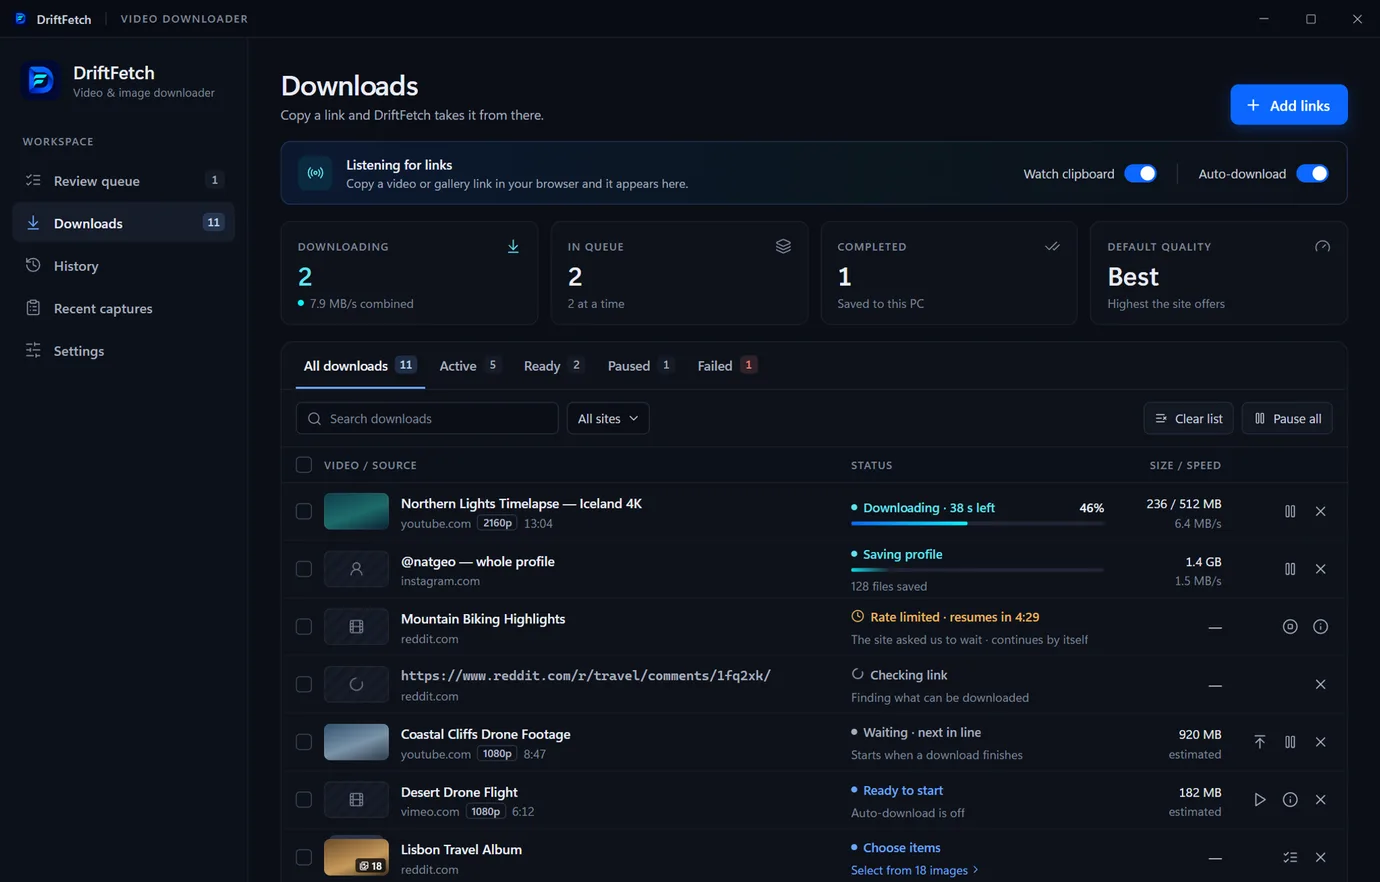
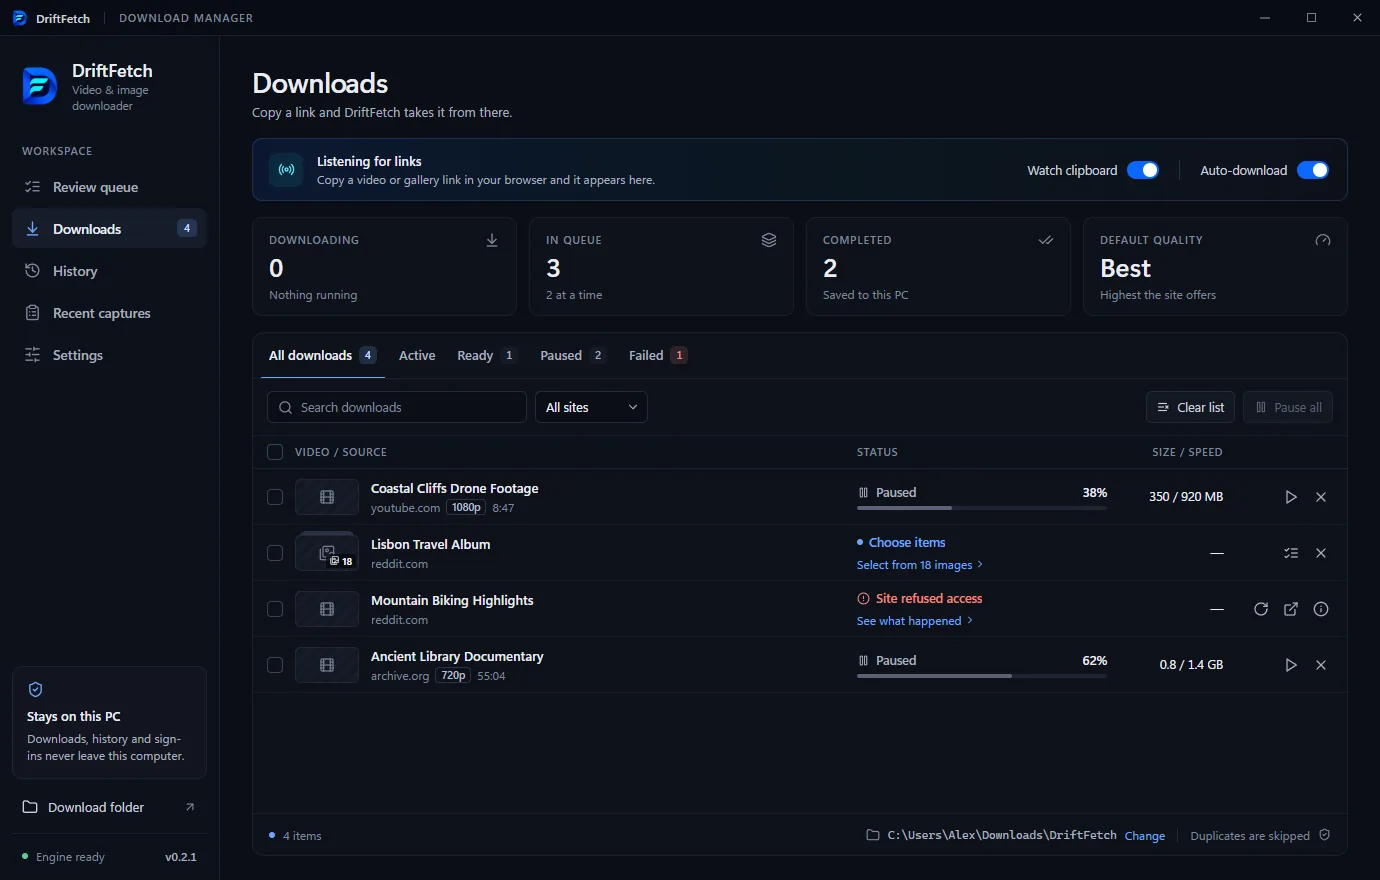
docs: say Reddit needs a sign-in, use a real app screenshot, update the plan
Reddit refused unsigned requests from the bundled engines, so the Reddit
page, FAQ and support matrix now say so. The home page screenshot is now
the real app window with neutral sample rows. The README points to the
downloads, and the plan records the security review, upgrade test,
accessibility pass and the items closed this round.

diff --git a/PLAN.md b/PLAN.md
@@ -1,6 +1,6 @@
 # Plan
 
-Status on 2026-10-15: the app's 254 tests pass, the type-check is clean and `npm run release:check` passes. The website builds and is live on GitHub Pages. No release has been published yet: there is no tag and no GitHub release, so the download buttons on the live site return 404.
+Status on 2026-10-16: the app's 256 tests pass, the type-check is clean and `npm run release:check` passes. The website builds and is live on GitHub Pages. No release has been published yet: there is no tag and no GitHub release, so the download buttons on the live site return 404.
 
 ## App
 
@@ -12,21 +12,31 @@ Status on 2026-10-15: the app's 254 tests pass, the type-check is clean and `npm
 - [x] **Extension picker** opens in `app/local-extensions/`, where built extension files sit side by side.
 - [x] **Contact address** is set in `SOURCE-OFFER.md` and the privacy note, and `npm run release:check` passes.
 - [x] **Packaged build tested (2026-10-15).** `npm run package` and `npm run package:portable` built `DriftFetch-Setup-0.2.1-x64.exe` and `DriftFetch-Portable-0.2.1-x64.exe` (Electron 44.7.2, gallery-dl v1.32.16). Silent install creates every file; all bundled engines pass their checksum, run from the installed copy, and download and merge test media; the installed app loads from `app.asar`, runs the startup engine check ("Engines are up to date.") and shows the new setting; the silent uninstall removes the files and the Start Menu shortcut. The portable build keeps all its data in "DriftFetch data" next to the `.exe`, leaves `%APPDATA%\DriftFetch` untouched, and removes its temporary copy when it quits.
+- [x] **Rebuilt installer tested (2026-10-16).** After the old-name removal: silent install, all bundled engines pass their checksum, run and merge test media from the installed copy, the packaged smoke suite passes (with its five known skips), and the silent uninstall removes the app and shortcuts while keeping user data.
 - [x] **Engine upkeep.** The in-app updater refreshes gallery-dl as well as yt-dlp, verified against each maintainer's signature. On by default it also runs at every start (Settings > Update engines automatically) and downloads only when a newer release exists; downloads wait until the check is done. The privacy note, installer page and website say so.
 - [x] **Engine and Electron bump (2026-10-15).** gallery-dl v1.32.16 (its `SHA256SUMS` signature checked against the pinned key) and Electron 44.7.2. `engines.lock.json`, `SOURCE-OFFER.md` and `THIRD-PARTY-NOTICES.md` updated.
 - [x] **Portable privacy text.** The privacy note (version 4, shown again once) and Settings > Privacy name the portable "DriftFetch data" folder next to the `.exe` as well as `%APPDATA%\DriftFetch`.
 - [x] **Support matrix.** `app/docs/SUPPORT-MATRIX.md` uses the DriftFetch name, the 15 October 2026 source check and the 0.2.1 packaged smoke run, and has a Reddit row marked not checked yet. Settings says the sites were checked in October 2026.
 
+- [x] **Upgrade rehearsal (2026-10-16).** Installed 0.2.1, then a 0.2.2 build over it with a silent install: the Programs entry moved to 0.2.2 with a single install folder, user data and the database were untouched, shortcuts were kept, bundled engines passed on the upgraded copy, and the uninstall left user data. Not done: an upgrade from a build made before the rename, a clean VM, and a data-schema upgrade from an old database (covered only by the unit test for migrating one).
+- [x] **Accessibility of the app (2026-10-16).** axe-core with the WCAG 2.2 A/AA and best-practice rule sets found no violations on Downloads, Review queue, History, Recent captures and the four Settings sections (with sample rows loaded). Keyboard-only use and a screen reader were not tried by hand.
+- [x] **Recovery and long queues.** Already covered by tests: a corrupt database is set aside and a clean one started, interrupted work resumes without overriding manual pauses, a 1,000-link queue in paste-sized batches stays responsive, low disk space blocks a download before the engine starts, missing files are detected and recovered, and timeouts are reported separately.
+
+### Security review (2026-10-16)
+Checked by reading the code. In place: sandbox, context isolation and no Node integration in every window; sender and frame check on every IPC call (`handle()` and both popup channels); navigation and `window.open` denied; permission requests denied; strict CSP (no inline script); `devTools` off when packaged; extension host in a child process with Node's permission model, an empty environment and read access only to its own file; cookie encryption and only-load-from-asar fuses on, inspector and `NODE_OPTIONS` fuses off; `shell.openExternal` limited to http(s); the app never downloads its own updates (the update action only verifies a local installer against the `.sha256` beside it).
+- [x] **Fixed:** the private-address check covered only clipboard-watched links. A public link that redirected to `localhost` or a LAN address was followed and the address handed to yt-dlp. Redirects are now followed one hop at a time and a public start never reaches a private host (`headFollowingRedirects` in `electron/core.ts`, two tests).
+- [ ] **Accepted for now:** the `runAsNode` fuse stays on because the extension host starts through `ELECTRON_RUN_AS_NODE`; any local process can therefore use the installed `DriftFetch.exe` as a Node interpreter. Replacing it with `utilityProcess.fork` needs testing inside a real Electron run.
+- [ ] **Accepted for now:** hosts that resolve to a private address (DNS rebinding) are not blocked for page requests; the thumbnail loader does check this.
+
 ### Still open
 - [x] **Installer, by hand.** Checked on 2026-10-16 with no DriftFetch installed: the privacy page, "Choose Installation Options" ("Only for me" preselected), the folder-choice page (default `%LOCALAPPDATA%\Programs\DriftFetch`, Browse, space required 551.4 MB), installing and the finish page. The finish page shows `build/installerSidebar.bmp` (DriftFetch icon and name on navy); the privacy page replaces the welcome page, so the finish page is where the sidebar appears. Cancelling on the folder page leaves no folder and no uninstall entry. When testing by hand, keep the keyboard and mouse idle: the installer takes focus when it opens, and stray key presses go to its Next button and skip pages.
 - [x] **Build-time gallery-dl signature.** `scripts/prepare-engines.mjs` now verifies gallery-dl's `SHA256SUMS.sig` with the pinned key, as it does for yt-dlp (checked 2026-10-16 by re-downloading both engines).
 - [x] **Old name removed (2026-10-16).** No tracked file uses the old product name any more. The file types are now `.driftfetch-extension` and `.driftfetch-backup`, settings and internal codes use `DRIFTFETCH_*`, the renderer API is `window.driftfetch` and the database is `driftfetch.sqlite`. This is a clean break with no code that reads the old names, since nothing was ever released under them; the move-once migration from `%APPDATA%\Current` is gone too. The engine-output parser now slices by prefix length instead of fixed offsets. On the development PC the old install, its `%APPDATA%` folder, the old builds and `test-results/` were removed, and the local database and extension files were renamed. Git history still has the old name.
-- [ ] **Local extensions.** Two extensions are built as `.driftfetch-extension` files in `app/local-extensions/` but not added in the app yet (Settings > Extensions > Add extension file). These files stay local and are never committed.
-- [ ] **Smoke suite flake.** Earlier notes say about one run in three a screenshot step times out at a different check, and a rerun passes. Likely cause: Windows occlusion, where a window covered by others stops painting. Packaged runs hit it twice in a row on 2026-10-15 and passed twice once spawned with `--disable-backgrounding-occluded-windows --disable-features=CalculateNativeWinOcclusion`. Source runs do not pass these switches yet.
+- [x] **Smoke suite flake.** Source runs now pass `--disable-backgrounding-occluded-windows` and `--disable-features=CalculateNativeWinOcclusion` too, as packaged runs already did (2026-10-16).
 - [x] **Smoke suite against a packaged build.** The `enableNodeCliInspectArguments: false` fuse blocks Playwright's Electron launcher, so with `DRIFTFETCH_PACKAGED_EXE` set `scripts/smoke.mjs` now spawns the exe with `--remote-debugging-port` and drives its window through `chromium.connectOverCDP`. Packaged runs use manual intake instead of the clipboard and skip what needs the main process: cookie import, Locate file and backup export/restore (stubbed dialogs), the floating capture panel (stubbed clipboard) and the hidden-window check. Skips are printed and listed under `skipped` in `report.json`. Passed 2026-10-15 against an install of `DriftFetch-Setup-0.2.1-x64.exe`; source runs still pass 18/18.
-- [ ] **Dev dependency audit.** `npm audit` flags `http-cache-semantics`, `source-map-js` and `sprintf-js` in dev dependencies. Nothing in the shipped app (`npm audit --omit=dev` is clean).
+- [x] **Dev dependency audit.** `npm audit fix` cleared the two high findings (`http-cache-semantics`, `source-map-js`). Eight moderate ones remain, all `sprintf-js` inside electron-builder's own dependencies; fixing them needs `npm audit fix --force` (an electron-builder major upgrade). Build tooling only: `npm audit --omit=dev` reports 0 for the shipped app.
 - [x] **Disk space.** Cleared on 2026-10-16: `app/test-results/` and the old build folders in `app/release/` are gone; only `release/0.2.1` is kept.
-- [ ] **Queue test needs the network.** "keeps title and referer on media-file entries" waits 2 s while the queue looks up a fake `.invalid` host for real. With slow DNS (11 s on 2026-10-16) it times out, also on unchanged `main`. Stub the lookup in the test.
+- [x] **Queue tests off the network.** `tests/queue.test.ts` now stubs `fetch` for every test (the queue sends a HEAD request to follow redirects); the suite takes 8 s instead of 16 s and no longer depends on DNS.
 
 ### Before a release
 - [x] **Git history.** Two local extensions' site names in earlier commits of this file were rewritten out of the whole history with `git filter-repo --replace-text` and force-pushed on 2026-10-16 (new tip `c2838ea`; every commit hash changed, the final tree did not). Old commits stay reachable on GitHub by SHA until GitHub Support removes cached views; other clones must re-clone.
@@ -50,13 +60,13 @@ Status on 2026-10-15: the app's 254 tests pass, the type-check is clean and `npm
 - [x] **Tablet width.** No page scrolls sideways at 768 px, and the home page reads cleanly (2026-10-16).
 
 ### Still open
-- [ ] **Images.** Refresh `app.webp` and `og.png` so they match the current UI and hero.
-- [ ] **Reddit page unchecked.** Its claims match the app's code (sound joined back, galleries in a folder, galleries wait for a choice by default), but no Reddit link has been checked live; Reddit's public API refused an unsigned request on 2026-10-16.
+- [x] **Images (2026-10-16).** `og.png` still matches the hero. `app.webp` was a render of the design mock, not the app; it is now a screenshot of the real window (seeded sample downloads with neutral titles, no real account names) and the alt text matches what it shows.
+- [x] **Reddit checked (2026-10-16).** Reddit refuses unsigned requests from the bundled gallery-dl (HTTP 403) and yt-dlp ("authentication required"), so the Reddit page and FAQ now say a sign-in is usually needed, and the support matrix marks the row blocked without a sign-in. Not tried with a signed-in session. Vimeo still needs a sign-in (as documented); Internet Archive works.
 
 ### Decisions
 - [ ] **Domain.** `driftfetch.app` is not owned, so the site stays at `multimccp00.github.io/driftfetch`. A custom domain needs `public/CNAME` and `SITE` / `BASE=/` in `.github/workflows/website.yml`.
-- [ ] **Buy Me a Coffee page.** Cover image and memberships.
-- [ ] **Legal and tax review.** Have an accountant or the tax office check the legal page and how donations are treated.
+- [x] **Buy Me a Coffee page.** Live and accepted as it is (2026-10-16).
+- [x] **Tax on donations.** The owner handles this outside the project (2026-10-16).
 
 ## Suggested order
 1. Release prep: legal review if wanted (not blocking).

diff --git a/app/docs/SUPPORT-MATRIX.md b/app/docs/SUPPORT-MATRIX.md
@@ -19,7 +19,7 @@ For a source-specific check, `node scripts/check-links.mjs --browser chrome:Defa
 | Direct HTTP(S) video       | Direct file                        | Download, pause/resume, quality measurement and file recovery verified                     | 360p and 1080p fixture media                                                                 | No                                                        | packaged smoke 0.2.1                 |
 | Redirect / embedded player | Individual video                   | Redirect resolution and embedded-media discovery verified                                  | Fixture media                                                                                | No                                                        | packaged smoke 0.2.1                 |
 | Image gallery              | Gallery                            | Grouped gallery selection and original image URLs verified                                 | Fixture image gallery                                                                        | Varies by site                                            | packaged smoke 0.2.1                 |
-| Reddit                     | Individual post, video or gallery  | Not checked yet: the website describes Reddit support, but no Reddit link has been checked | Not checked                                                                                  | Some posts need a sign-in                                 | Needs a permitted source check       |
+| Reddit                     | Individual post, video or gallery  | Blocked without a sign-in: on 16 October 2026 Reddit refused unsigned requests from the bundled gallery-dl and yt-dlp (HTTP 403 / "authentication required"); not checked with a signed-in session | Not checked | Sign in once in the app (Settings > Sites & sign-ins) | Needs a permitted source check       |
 | Instagram                  | Individual post, carousel, profile | Implemented through gallery-dl; no public production account is claimed tested yet         | Varies by post and original image/video                                                      | Public posts may work; private content requires a session | Needs a permitted source check       |
 
 ## How to read the table

diff --git a/app/README.md b/app/README.md
@@ -71,7 +71,7 @@ Refresh expired sessions and retry affected downloads. DRM decryption and access
 
 ## Engine updates
 
-Settings → Advanced → Download engine downloads yt-dlp from its official GitHub release, checks that the release's checksum list is signed by the yt-dlp maintainers' PGP key built into DriftFetch (fingerprint `AC0C BBE6 848D 6A87 3464 AF4E 57CF 6593 3B5A 7581`), checks the executable against that list, validates the executable, and retains the previous version for rollback. Active extraction and downloads must finish or be paused before an update. FFmpeg, FFprobe, Deno and gallery-dl run from the install folder and are updated by installing a newer DriftFetch build. The bundled yt-dlp replaces an older installed copy when a new build is first launched.
+Settings → Advanced → Download engine downloads yt-dlp from its official GitHub release, checks that the release's checksum list is signed by the yt-dlp maintainers' PGP key built into DriftFetch (fingerprint `AC0C BBE6 848D 6A87 3464 AF4E 57CF 6593 3B5A 7581`), checks the executable against that list, validates the executable, and retains the previous version for rollback. Active extraction and downloads must finish or be paused before an update. gallery-dl is updated the same way, checked against its maintainer's signature, and by default both engines are checked at every start (Settings → Advanced → Download engine → Update engines automatically). FFmpeg, FFprobe and Deno run from the install folder and are updated by installing a newer DriftFetch build. The bundled yt-dlp replaces an older installed copy when a new build is first launched.
 
 Data lives under Electron's per-user `DriftFetch` application-data directory: `driftfetch.sqlite`, `engines`, and `temporary-sessions`. There is no cloud service or telemetry. `DRIFTFETCH_USER_DATA` is available for isolated testing; normal runs use the default per-user location.
 

diff --git a/README.md b/README.md
@@ -34,7 +34,9 @@ Support comes from the yt-dlp and gallery-dl extractors, so it is not a universa
 
 ## Status
 
-Version 0.2.1, Windows 10/11 x64 only, **unsigned**, so Windows may show an "unknown publisher" prompt. There are no published releases yet; for now, build it yourself.
+Version 0.2.1, Windows 10/11 x64 only. Download the installer or the portable build from the [download page](https://multimccp00.github.io/driftfetch/download) or [GitHub Releases](https://github.com/multimccp00/driftfetch/releases). Each release lists SHA-256 checksums and includes the source code of the bundled GPL and LGPL programs.
+
+The builds are **unsigned**, so Windows SmartScreen may warn that the publisher is unknown: choose **More info**, then **Run anyway**.
 
 ## Build and run
 
